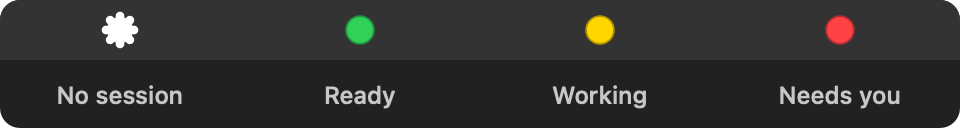
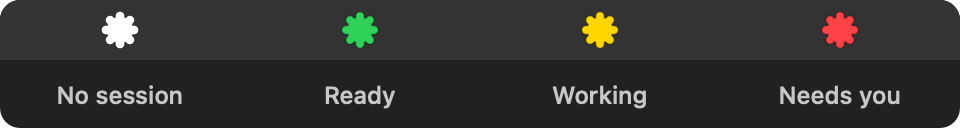
feat: use the flower mark for every menu bar state
Ready, working and needs-input now show the flower filled with the state
color (with a faint outline for contrast) instead of a circle, and session
rows in the menu use small flowers. Accessibility shape mode is unchanged.
Docs images regenerated.

Changed region(s): [[0.8438, 0.0938, 0.9062, 0.375], [0.5938, 0.0938, 0.6562, 0.375], [0.3438, 0.0938, 0.4062, 0.375]]

diff --git a/Sources/ClaudeStatusLight/IconRenderer.swift b/Sources/ClaudeStatusLight/IconRenderer.swift
@@ -2,13 +2,12 @@ import AppKit
 import StatusCore
 
 enum IconRenderer {
-    /// The menu bar image. Colored states are drawn with a faint outline so yellow and green stay
-    /// readable on a light menu bar; "no session" is the app's flower mark as a template image,
-    /// which macOS tints to match the menu bar.
+    /// The menu bar image: the app's flower mark, filled with the state's color, or as a template
+    /// image (tinted to match the menu bar) when no session is open.
     static func statusImage(for state: SessionState?) -> NSImage {
         let image: NSImage
         if let state {
-            image = Pref.defaults.bool(forKey: Pref.symbolMode) ? symbol(for: state) : circle(for: state)
+            image = Pref.defaults.bool(forKey: Pref.symbolMode) ? symbol(for: state) : flower(for: state)
         } else {
             image = BrandMark.templateImage()
         }
@@ -16,32 +15,26 @@ enum IconRenderer {
         return image
     }
 
-    /// Small dot for menu rows.
+    /// Small flower for menu rows.
     static func dot(for state: SessionState) -> NSImage {
-        let color = Pref.color(for: state)
-        return NSImage(size: NSSize(width: 10, height: 10), flipped: false) { rect in
-            let path = NSBezierPath(ovalIn: rect.insetBy(dx: 1, dy: 1))
-            color.setFill()
-            path.fill()
-            NSColor.black.withAlphaComponent(0.2).setStroke()
-            path.lineWidth = 0.5
-            path.stroke()
-            return true
-        }
+        flower(color: Pref.color(for: state), canvas: 12, markSize: 11, outline: 0.5)
     }
 
-    private static func circle(for state: SessionState) -> NSImage {
-        let color = Pref.color(for: state)
-        return NSImage(size: NSSize(width: 18, height: 18), flipped: false) { rect in
-            let diameter: CGFloat = 12
-            let frame = NSRect(x: (rect.width - diameter) / 2, y: (rect.height - diameter) / 2,
-                               width: diameter, height: diameter)
+    /// The flower mark filled with the state's color. A faint outline keeps yellow and green
+    /// readable on a light menu bar.
+    private static func flower(for state: SessionState) -> NSImage {
+        flower(color: Pref.color(for: state), canvas: 18, markSize: 15, outline: 0.7)
+    }
+
+    private static func flower(color: NSColor, canvas: CGFloat, markSize: CGFloat, outline: CGFloat) -> NSImage {
+        NSImage(size: NSSize(width: canvas, height: canvas), flipped: true) { rect in
+            let inset = (rect.width - markSize) / 2
+            let path = BrandMark.path(fitting: rect.insetBy(dx: inset, dy: inset))
             color.setFill()
-            NSBezierPath(ovalIn: frame).fill()
-            let edge = NSBezierPath(ovalIn: frame.insetBy(dx: 0.35, dy: 0.35))
-            edge.lineWidth = 0.7
+            path.fill()
+            path.lineWidth = outline
             NSColor.black.withAlphaComponent(0.3).setStroke()
-            edge.stroke()
+            path.stroke()
             return true
         }
     }
@@ -58,6 +51,6 @@ enum IconRenderer {
         let config = NSImage.SymbolConfiguration(pointSize: 14, weight: .semibold)
             .applying(NSImage.SymbolConfiguration(paletteColors: [fill.isLight ? .black : .white, fill]))
         return NSImage(systemSymbolName: name, accessibilityDescription: nil)?
-            .withSymbolConfiguration(config) ?? circle(for: state)
+            .withSymbolConfiguration(config) ?? flower(for: state)
     }
 }

diff --git a/CHANGELOG.md b/CHANGELOG.md
@@ -2,7 +2,7 @@
 
 ## Unreleased
 
-- **New icon**: an orange flower mark. The app icon uses it, and the menu bar shows it when no session is open (instead of the gray ring).
+- **New icon**: an orange flower mark. The app icon uses it, and so does the menu bar light: a flower in green, yellow or red instead of a circle, and a plain flower when no session is open.
 
 - **Usage limits in the menu**: current session (5-hour) and weekly usage, with bars, percentages and reset times, like `/usage`.
   - Terminal sessions: read from Claude Code's status line, offline. Your existing status line is wrapped and keeps working, and it's restored on uninstall.
